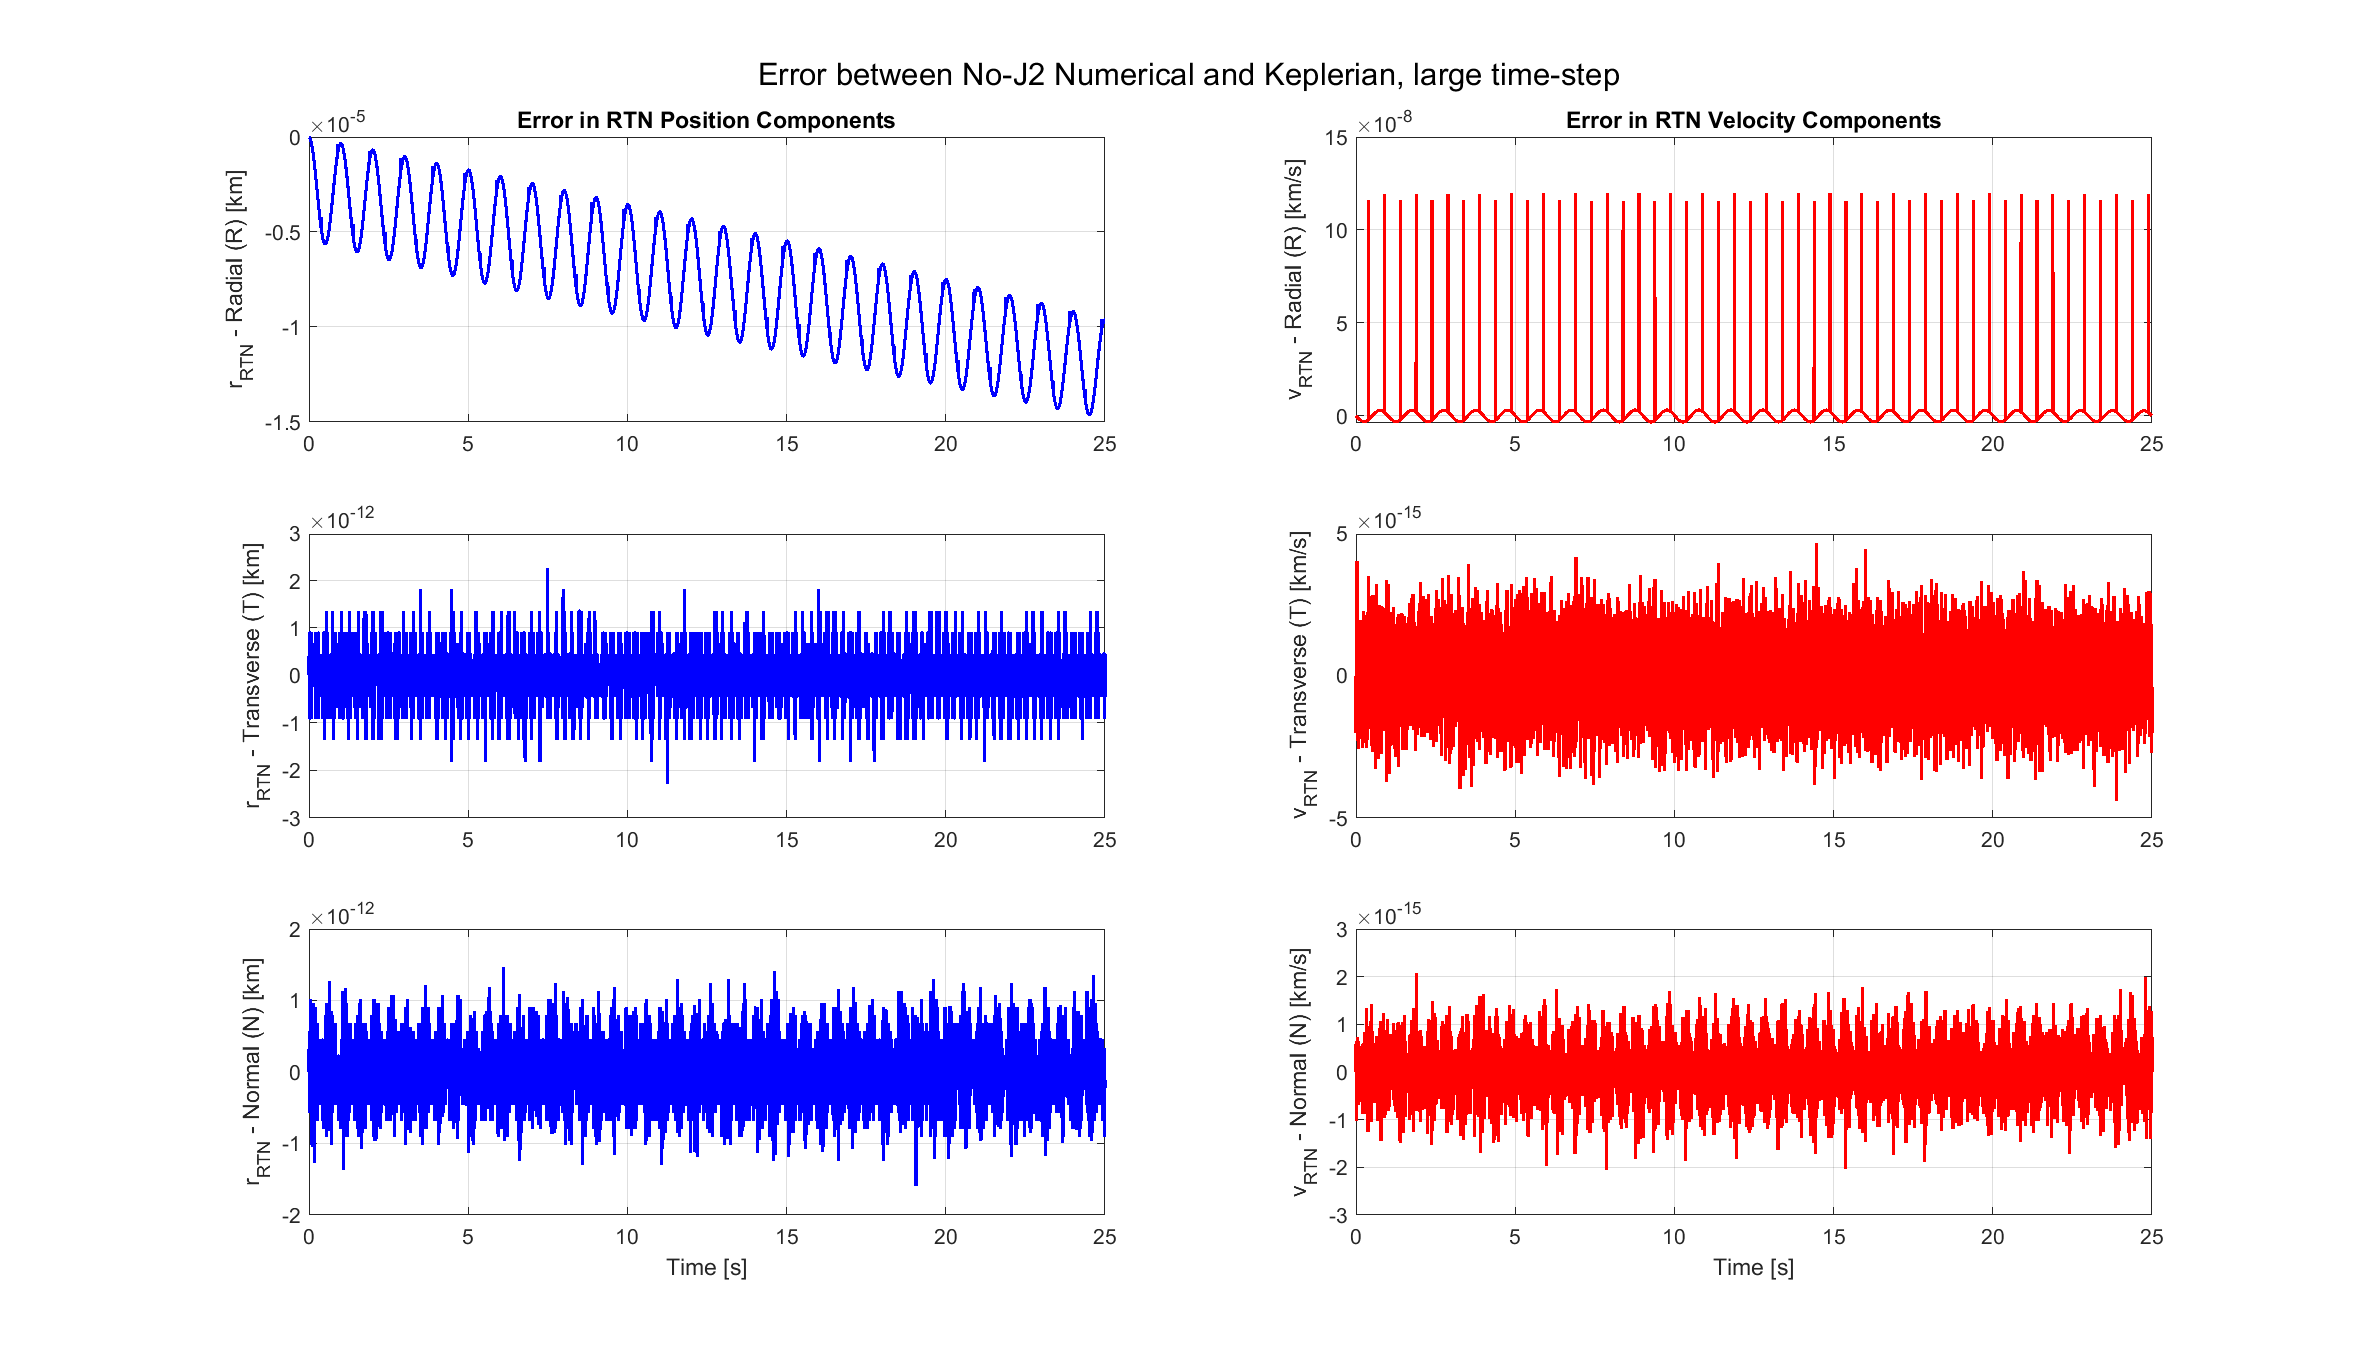
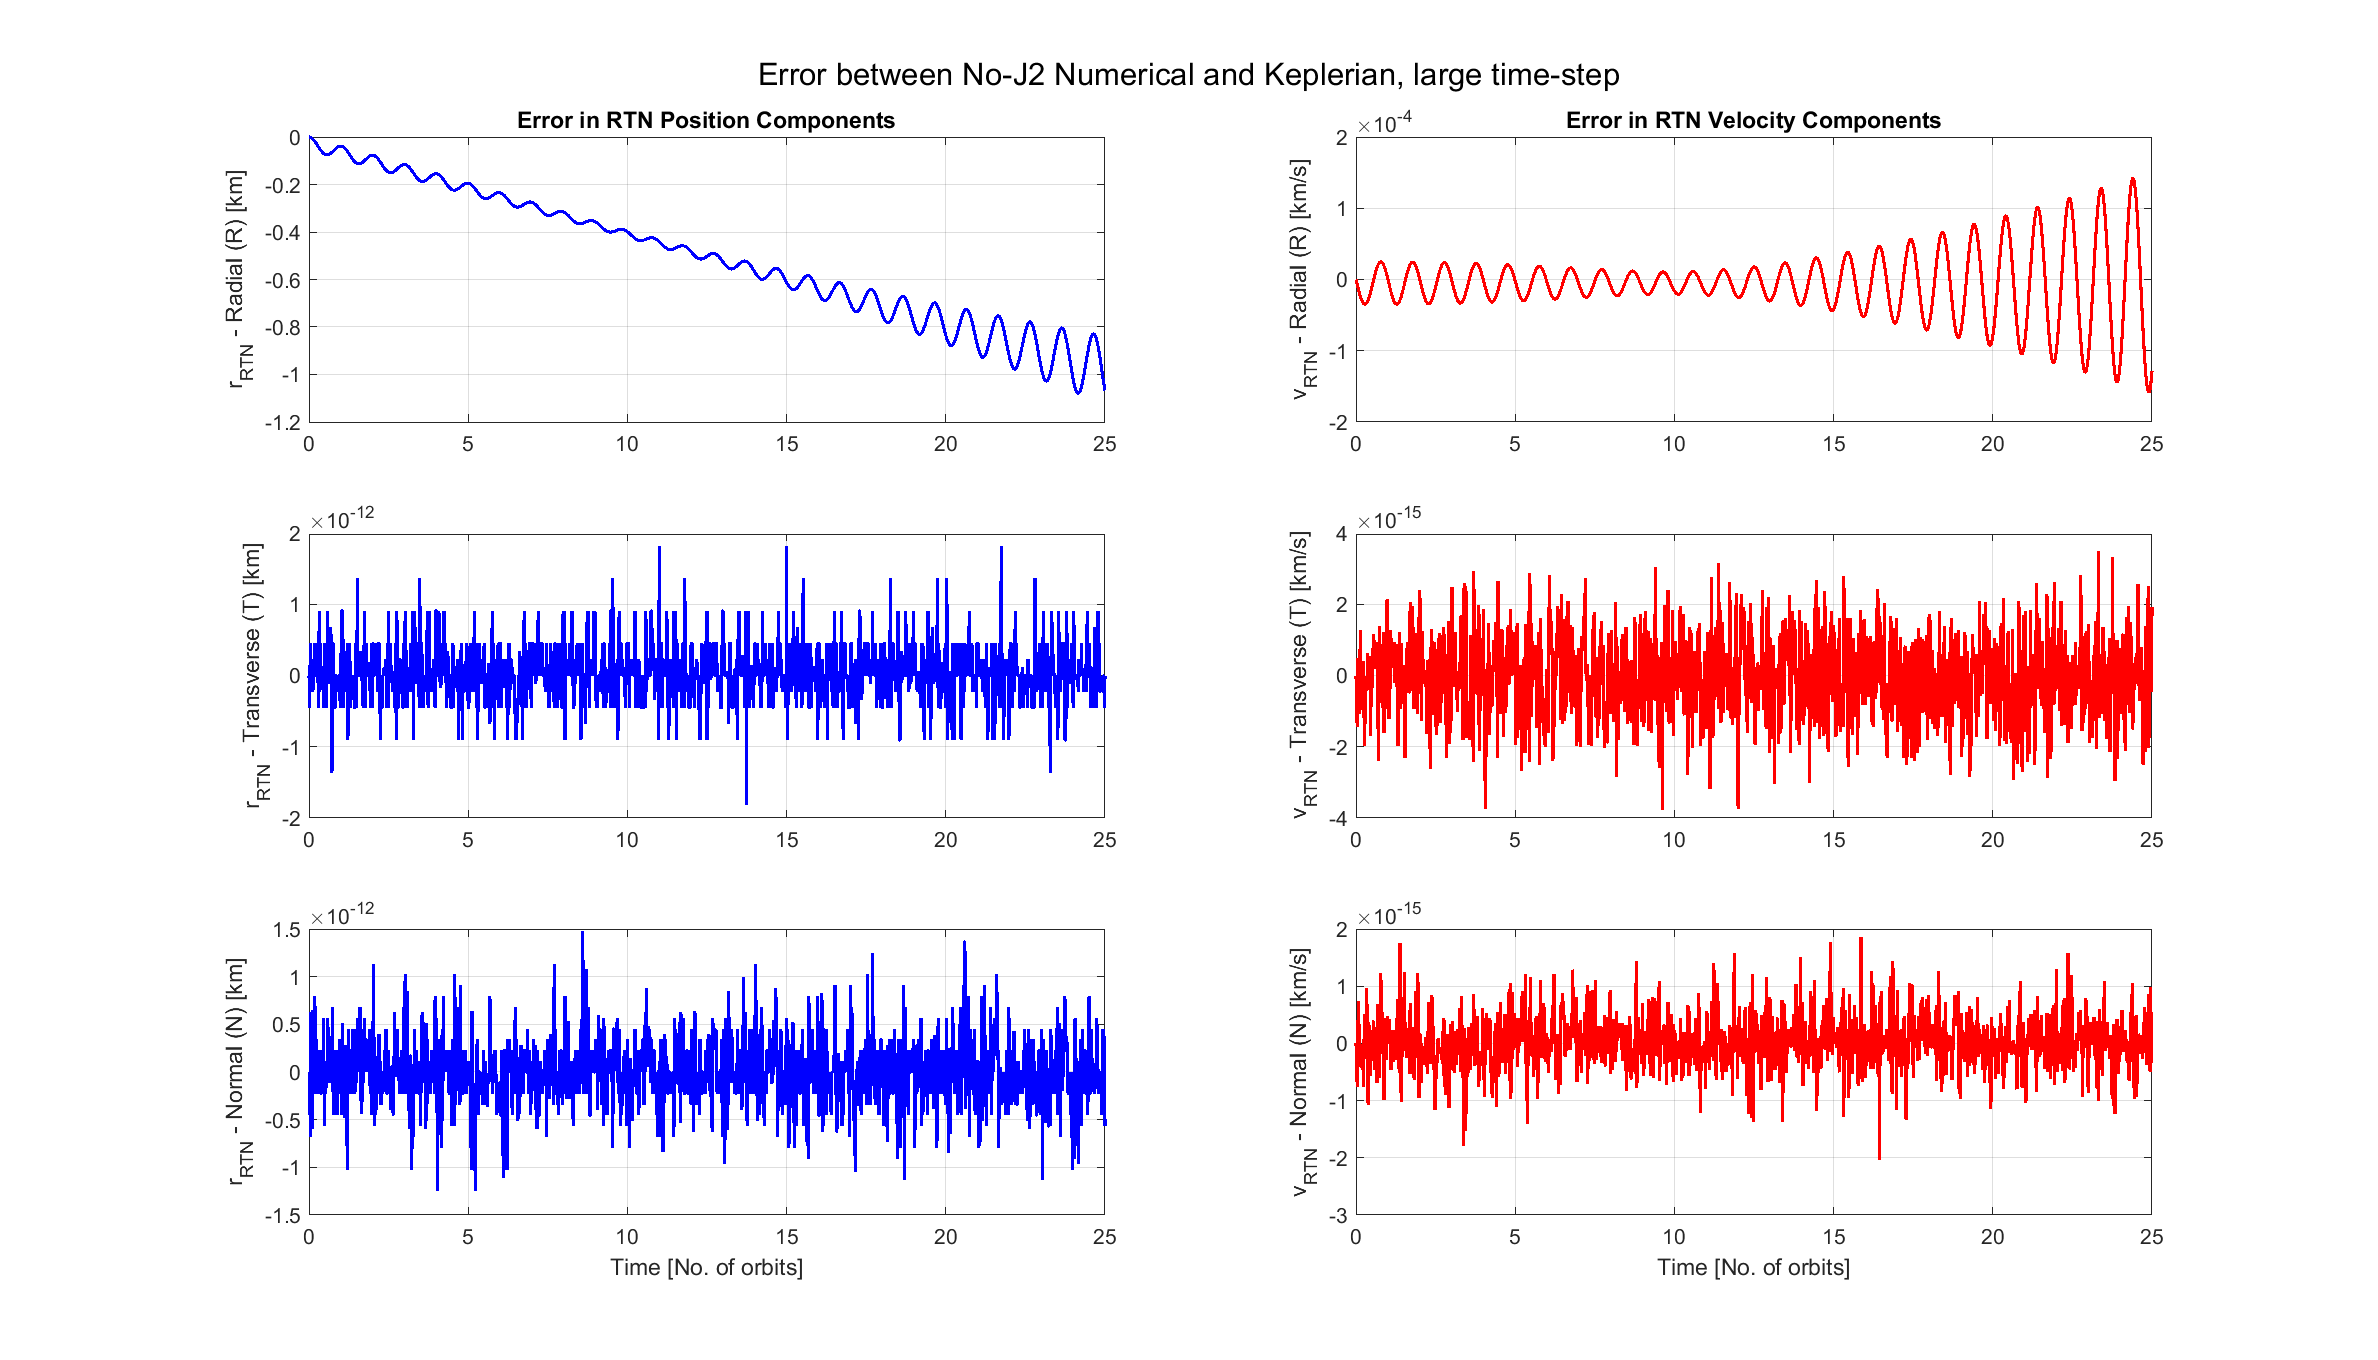
Final PS1 change I promise

diff --git a/sim/sim_main.m b/sim/sim_main.m
@@ -145,8 +145,8 @@ if PS1_plots
     plot_3D_orbit_aoe_compare(r_ECI_no_j2, r_ECI_keplerian, 'Orbit without J2', 'Keplerian Propagator')
     
     %%%%%% COMPARE RTN VALUES %%%%%% 
-    plot_rtn_compare(t_1, t_orbit, r_RTN_no_j2, r_RTN_keplerian, v_RTN_no_j2, v_RTN_keplerian, 'Numerical with no J2', 'Keplerian', 'Error between No-J2 Numerical and Keplerian, large time-step', 'figures/comparing_rtn_large_timestep.png');
-    % plot_rtn_compare(t_1, t_orbit, r_RTN_no_j2, r_RTN_keplerian, v_RTN_no_j2, v_RTN_keplerian, 'Numerical with no J2', 'Keplerian', 'Error between No-J2 Numerical and Keplerian, small time-step', 'figures/comparing_rtn_small_timestep.png');
+    % plot_rtn_compare(t_1, t_orbit, r_RTN_no_j2, r_RTN_keplerian, v_RTN_no_j2, v_RTN_keplerian, 'Numerical with no J2', 'Keplerian', 'Error between No-J2 Numerical and Keplerian, large time-step', 'figures/comparing_rtn_large_timestep.png');
+    plot_rtn_compare(t_1, t_orbit, r_RTN_no_j2, r_RTN_keplerian, v_RTN_no_j2, v_RTN_keplerian, 'Numerical with no J2', 'Keplerian', 'Error between No-J2 Numerical and Keplerian, small time-step', 'figures/comparing_rtn_small_timestep.png');
     
     %%%%%%% COMPUTE AND PLOT OE, ECCENTRICITY, ANGULAR MOMENTUM, SPECIFIC MECHANICAL ENERGY %%%%%%% 
     [a_2,e_2,i_2,RAAN_2,omega_2,nu_2] = compute_and_plot_orbit_params(r_ECI_no_j2,v_ECI_no_j2,r_ECI_with_j2,v_ECI_with_j2,t_1,t_2);

diff --git a/sim/plotting_methods/plot_rtn_compare.m b/sim/plotting_methods/plot_rtn_compare.m
@@ -17,7 +17,7 @@ function [] = plot_rtn_compare(t, t_orbit, r_RTN_1, r_RTN_2, v_RTN_1, v_RTN_2, l
             title('Error in RTN Position Components');
         end
         if i == 3
-            xlabel('Time [s]');
+            xlabel('Time [No. of orbits]');
         end
         grid on;
     
@@ -29,12 +29,12 @@ function [] = plot_rtn_compare(t, t_orbit, r_RTN_1, r_RTN_2, v_RTN_1, v_RTN_2, l
             title('Error in RTN Velocity Components');
         end
         if i == 3
-            xlabel('Time [s]');
+            xlabel('Time [No. of orbits]');
         end
         grid on;
     end
     
-    % xlabel('Time [s]');
+    % xlabel('Time [No. of orbits]');
     sgtitle(title_string);
     saveas(gcf, fig_path);
 
